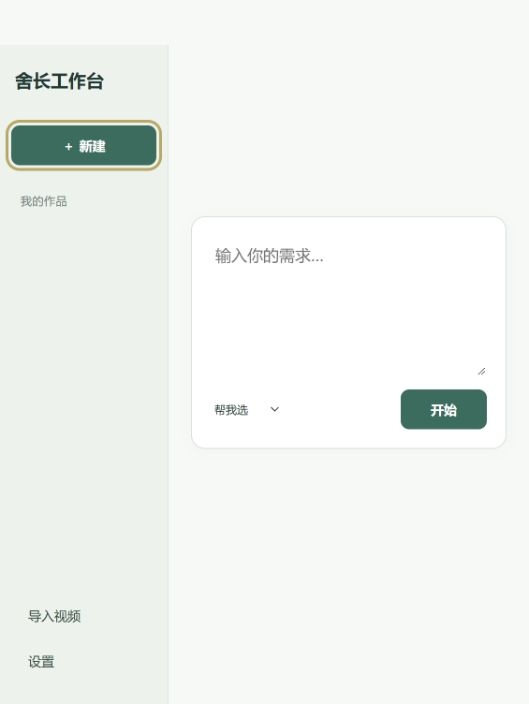
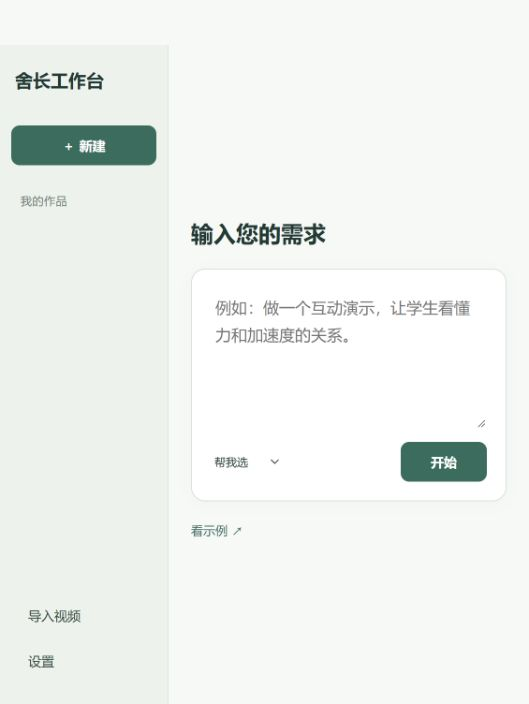
ui: add a short input prompt and example entry

diff --git a/teach_agent/static/app.js b/teach_agent/static/app.js
@@ -2,7 +2,7 @@
 const $=id=>document.getElementById(id);
 let token=location.hash.slice(1)||sessionStorage.getItem('teach-token')||'';
 if(location.hash){sessionStorage.setItem('teach-token',token);history.replaceState(null,'',location.pathname);}
-let current=null, versions=[], selectedVersion=null, activeJob=null, timer=null, videoUrl=null, uploadVersion=null;
+let current=null, versions=[], selectedVersion=null, activeJob=null, timer=null, videoUrl=null, example=false, uploadVersion=null;
 function notice(message){$('notice').textContent=message;$('notice').hidden=!message;}
 async function api(path,options={}){
   const response=await fetch('/api'+path,{...options,headers:{Authorization:'Bearer '+token,...(options.body&&!(options.body instanceof Blob)?{'Content-Type':'application/json'}:{}),...options.headers}});
@@ -21,15 +21,15 @@ async function refreshProjects(){const list=await json('/projects');$('projects'
 function planValue(){const form=$('plan-form'),old=current.plan;const plan={...old};for(const key of ['title','grade','kind','objective','misconception','interaction','observation','check_question'])plan[key]=form.elements[key].value.trim();for(const key of ['steps','assumptions'])plan[key]=form.elements[key].value.split('\n').map(x=>x.trim()).filter(Boolean);if(plan.kind==='animation'&&old.animation?.template==='force_composition'){plan.animation={template:'force_composition'};for(const key of ['force1','force2','angle','hold'])plan.animation[key]=Number(form.elements[key].value);}else if(plan.kind==='interactive'){plan.animation=null;}plan.learning_design=readTeachingDesign();if(plan.learning_design)plan.steps=plan.learning_design.sequence.map(step=>step.title);return plan;}
 function showPlan(){const p=current.plan;$('plan-panel').hidden=!p;if(!p)return;showPlanSummary(p);showTeachingDesign(p.learning_design);const f=$('plan-form');for(const key of ['title','grade','kind','objective','misconception','interaction','observation','check_question'])f.elements[key].value=p[key]||'';for(const key of ['steps','assumptions'])f.elements[key].value=(p[key]||[]).join('\n');$('animation-fields').hidden=p.kind!=='animation'||p.animation?.template!=='force_composition';if(p.animation)for(const key of ['force1','force2','angle','hold'])f.elements[key].value=p.animation[key]??({force1:3,force2:4,angle:60,hold:2}[key]);$('plan-revision').textContent='方案 '+current.plan_revision+' · '+(current.confirmed_revision===current.plan_revision?'已确认':'待确认');setStep(0);}
 async function savePlan(){if(!$('plan-form').reportValidity())throw Error('请补齐方案中的必填内容');const plan=planValue();if(JSON.stringify(plan)!==JSON.stringify(current.plan)){current=await post('/projects/'+current.id+'/plan',{revision:current.plan_revision,plan});showPlan();await refreshProjects();}}
-async function loadProject(id){clearTimeout(timer);activeJob=null;cleanPreview();const data=await json('/projects/'+id);current=data.project;versions=data.versions;$('existing-versions').hidden=!versions.length;$('page-title').textContent=current.title;show('workspace');$('progress').hidden=true;$('result-panel').hidden=true;showPlan();await refreshProjects();const running=data.jobs.find(j=>['queued','running'].includes(j.status));if(running){watch(running);return;}if(versions.length){await showVersion(versions[0].id);if(current.confirmed_revision!==current.plan_revision){$('plan-panel').hidden=false;$('result-panel').hidden=true;setStep(0);}}const last=data.jobs[0];if(last?.status==='failed')notice(last.error);}
+async function loadProject(id){clearTimeout(timer);activeJob=null;example=false;cleanPreview();const data=await json('/projects/'+id);current=data.project;versions=data.versions;$('existing-versions').hidden=!versions.length;$('page-title').textContent=current.title;show('workspace');$('progress').hidden=true;$('result-panel').hidden=true;showPlan();await refreshProjects();const running=data.jobs.find(j=>['queued','running'].includes(j.status));if(running){watch(running);return;}if(versions.length){await showVersion(versions[0].id);if(current.confirmed_revision!==current.plan_revision){$('plan-panel').hidden=false;$('result-panel').hidden=true;setStep(0);}}const last=data.jobs[0];if(last?.status==='failed')notice(last.error);}
 function watch(job){activeJob=job;show('workspace');$('progress').hidden=false;$('progress-stage').textContent=job.stage;$('progress-detail').textContent=job.kind==='plan'?'正在准备方案…':'正在制作…';setStep(job.kind==='plan'?0:1);$('plan-panel').hidden=true;$('result-panel').hidden=true;clearTimeout(timer);timer=setTimeout(()=>poll(job.id),800);}
 async function poll(id){try{const j=await json('/jobs/'+id);if(activeJob?.id!==id)return;activeJob=j;$('progress-stage').textContent=j.stage;if(['queued','running'].includes(j.status)){timer=setTimeout(()=>poll(id),1500);return;}$('progress').hidden=true;const pid=j.project_id;activeJob=null;await loadProject(pid);if(j.status==='failed')notice(j.error);if(j.status==='cancelled')notice('任务已取消，之前的作品仍然保留。');}catch(e){notice(e.message);timer=setTimeout(()=>poll(id),3000);}}
-async function showVersion(id){selectedVersion=versions.find(v=>v.id===id);if(!selectedVersion)return;cleanPreview();$('plan-panel').hidden=true;$('result-panel').hidden=false;$('result-title').textContent=selectedVersion.title;$('version-select').replaceChildren();versions.forEach((v,i)=>{const o=document.createElement('option');o.value=v.id;o.textContent='版本 '+(versions.length-i)+' · '+new Date(v.created_at).toLocaleString();o.selected=v.id===id;$('version-select').append(o);});$('version-select').hidden=false;const r=selectedVersion.report;$('result-checks').textContent=selectedVersion.kind==='animation'?'视频已解码检查 · 受控模板 · 请预览确认教学效果':(r.browser_checked?'浏览器交互与布局检查通过':'浏览器检查尚未实测')+' · 教学内容已做模型复核，仍建议老师预览';$('preview').hidden=selectedVersion.kind==='animation';$('video-preview').hidden=selectedVersion.kind!=='animation';if(selectedVersion.kind==='animation'){const access=await json('/versions/'+id+'/access');$('video-preview').src=access.url+'?format=video';}else{let page=await (await api('/versions/'+id+'/html')).text();if(selectedVersion.kind==='combined'){const access=await json('/versions/'+id+'/access');const media=location.origin+access.url+'?format=video';page=page.replaceAll('assets/clip.mp4',media).replaceAll('media-src &#x27;self&#x27; blob:', 'media-src '+location.origin+' blob:');}renderPreview(page);}$('download-main').textContent=selectedVersion.kind==='animation'?'保存 MP4 视频':selectedVersion.kind==='combined'?'保存含动画离线包':'保存互动 HTML';for(const element of ['download-zip','download-project','back-plan','revision-form'])$(element).hidden=false;if(selectedVersion.kind!=='interactive')$('revision-form').hidden=true;$('attach-video').hidden=selectedVersion.kind!=='interactive';$('back-plan').hidden=!current.plan;if(r.source==='imported')$('result-checks').textContent='导入已有动画 · 视频已解码检查 · 请预览确认教学内容';if(selectedVersion.kind==='combined')$('result-checks').textContent='互动版本的检查已保留 · 新加入的视频已解码检查，内容需预览确认';setStep(2);}
-async function download(format){const access=await json('/versions/'+selectedVersion.id+'/access');const link=document.createElement('a');link.href=access.url+'?format='+format;document.body.append(link);link.click();link.remove();}
+async function showVersion(id){selectedVersion=versions.find(v=>v.id===id);if(!selectedVersion)return;example=false;cleanPreview();$('plan-panel').hidden=true;$('result-panel').hidden=false;$('result-title').textContent=selectedVersion.title;$('version-select').replaceChildren();versions.forEach((v,i)=>{const o=document.createElement('option');o.value=v.id;o.textContent='版本 '+(versions.length-i)+' · '+new Date(v.created_at).toLocaleString();o.selected=v.id===id;$('version-select').append(o);});$('version-select').hidden=false;const r=selectedVersion.report;$('result-checks').textContent=selectedVersion.kind==='animation'?'视频已解码检查 · 受控模板 · 请预览确认教学效果':(r.browser_checked?'浏览器交互与布局检查通过':'浏览器检查尚未实测')+' · 教学内容已做模型复核，仍建议老师预览';$('preview').hidden=selectedVersion.kind==='animation';$('video-preview').hidden=selectedVersion.kind!=='animation';if(selectedVersion.kind==='animation'){const access=await json('/versions/'+id+'/access');$('video-preview').src=access.url+'?format=video';}else{let page=await (await api('/versions/'+id+'/html')).text();if(selectedVersion.kind==='combined'){const access=await json('/versions/'+id+'/access');const media=location.origin+access.url+'?format=video';page=page.replaceAll('assets/clip.mp4',media).replaceAll('media-src &#x27;self&#x27; blob:', 'media-src '+location.origin+' blob:');}renderPreview(page);}$('download-main').textContent=selectedVersion.kind==='animation'?'保存 MP4 视频':selectedVersion.kind==='combined'?'保存含动画离线包':'保存互动 HTML';for(const element of ['download-zip','download-project','back-plan','revision-form'])$(element).hidden=false;if(selectedVersion.kind!=='interactive')$('revision-form').hidden=true;$('attach-video').hidden=selectedVersion.kind!=='interactive';$('back-plan').hidden=!current.plan;if(r.source==='imported')$('result-checks').textContent='导入已有动画 · 视频已解码检查 · 请预览确认教学内容';if(selectedVersion.kind==='combined')$('result-checks').textContent='互动版本的检查已保留 · 新加入的视频已解码检查，内容需预览确认';setStep(2);}
+async function download(format){const access=await json(example?'/examples/force/access':'/versions/'+selectedVersion.id+'/access');const link=document.createElement('a');link.href=access.url+'?format='+format;document.body.append(link);link.click();link.remove();}
 async function openSettings(){const config=await json('/settings'),f=$('settings-form');for(const key of ['base_url','model','max_tokens','manim_python'])f.elements[key].value=config[key]??'';f.elements.api_key.value='';f.elements.api_key.placeholder=config.has_key?'已保存，留空即可保留':'本地无密钥模型可留空';$('settings-dialog').showModal();}
 async function boot(){const status=await json('/status');$('connection').textContent=status.model.configured?'模型已配置':'尚未配置模型';await refreshProjects();}
 $('request-form').onsubmit=e=>{e.preventDefault();act($('propose'),async()=>{const result=await post('/projects',{request:$('request').value,kind:$('kind').value});current=result.project;versions=[];$('existing-versions').hidden=true;$('page-title').textContent=current.title;await refreshProjects();watch(result.job);});};
-$('new-work').onclick=()=>{clearTimeout(timer);activeJob=null;current=null;cleanPreview();show('welcome');notice('');$('page-title').textContent='';refreshProjects().catch(e=>notice(e.message));};
+$('new-work').onclick=()=>{clearTimeout(timer);activeJob=null;current=null;example=false;cleanPreview();show('welcome');notice('');$('page-title').textContent='';refreshProjects().catch(e=>notice(e.message));};
 $('save-plan').onclick=()=>act($('save-plan'),async()=>{await savePlan();notice('方案已保存。确认后才会开始制作。');});
 $('plan-form').onsubmit=e=>{e.preventDefault();act($('confirm-plan'),async()=>{await savePlan();watch(await post('/projects/'+current.id+'/confirm',{revision:current.plan_revision}));});};
 $('plan-form').elements.kind.onchange=()=>{$('animation-fields').hidden=$('plan-form').elements.kind.value!=='animation'||current.plan.animation?.template!=='force_composition';};
@@ -38,7 +38,7 @@ $('cancel-job').onclick=()=>act($('cancel-job'),async()=>{if(activeJob){const pi
 $('version-select').onchange=()=>act(null,()=>showVersion($('version-select').value));
 $('revision-form').onsubmit=e=>{e.preventDefault();act(e.submitter,async()=>{watch(await post('/projects/'+current.id+'/revise',{version_id:selectedVersion.id,request:$('revision').value}));$('revision').value='';});};
 $('back-plan').onclick=()=>{$('result-panel').hidden=true;showPlan();};
-$('download-main').onclick=()=>act($('download-main'),()=>download(selectedVersion.kind==='interactive'?'html':selectedVersion.kind==='combined'?'zip':'video'));
+$('download-main').onclick=()=>act($('download-main'),()=>download(example||selectedVersion.kind==='interactive'?'html':selectedVersion.kind==='combined'?'zip':'video'));
 $('download-zip').onclick=()=>act($('download-zip'),()=>download('zip'));
 $('download-project').onclick=()=>act($('download-project'),()=>download('project'));
 $('settings-button').onclick=()=>act(null,openSettings);
@@ -46,6 +46,7 @@ $('settings-form').onsubmit=e=>{e.preventDefault();act(e.submitter,async()=>{con
 $('clear-key').onclick=()=>act($('clear-key'),async()=>{await json('/settings',{method:'PUT',body:JSON.stringify({clear_key:true})});$('settings-form').elements.api_key.value='';notice('配置文件中的密钥已清除。环境变量设置的密钥需在启动环境中清除。');});
 document.querySelectorAll('.close-dialog').forEach(b=>b.onclick=()=>b.closest('dialog').close());
 $('auth-form').onsubmit=e=>{e.preventDefault();act(e.submitter,async()=>{token=$('auth-token').value.trim();sessionStorage.setItem('teach-token',token);await boot();$('auth-dialog').close();});};
+$('example-button').onclick=()=>act($('example-button'),async()=>{clearTimeout(timer);activeJob=null;cleanPreview();example=true;current=null;$('page-title').textContent='示例';$('existing-versions').hidden=true;show('workspace');$('plan-panel').hidden=true;$('progress').hidden=true;$('result-panel').hidden=false;$('result-title').textContent='力与加速度 · 内置示例';$('result-checks').textContent='内置示例，可以直接操作体验。';$('version-select').hidden=true;$('preview').hidden=false;$('video-preview').hidden=true;renderPreview(await (await api('/examples/force')).text());$('download-main').textContent='保存示例 HTML';for(const element of ['download-zip','download-project','back-plan','revision-form','attach-video'])$(element).hidden=true;setStep(2);});
 boot().catch(e=>notice(e.message));
 
 $('import-button').onclick=()=>{uploadVersion=null;$('video-file').click();};

diff --git a/teach_agent/static/index.html b/teach_agent/static/index.html
@@ -6,7 +6,9 @@
 <header id="work-header" class="topbar" hidden><span id="page-title"></span></header>
 <div id="notice" role="alert" hidden></div>
 <section id="welcome" class="welcome">
-<form id="request-form" class="composer"><label for="request" class="sr-only">教学需求</label><textarea id="request" required maxlength="6000" placeholder="输入你的需求…"></textarea><div class="composer-footer"><label class="type-label"><span class="sr-only">作品形式</span><select id="kind"><option value="auto">帮我选</option><option value="interactive">互动演示</option><option value="animation">教学动画</option></select></label><button class="primary" id="propose">开始</button></div></form>
+<h1 class="request-heading"><label for="request">输入您的需求</label></h1>
+<form id="request-form" class="composer"><textarea id="request" required maxlength="6000" placeholder="例如：做一个互动演示，让学生看懂力和加速度的关系。"></textarea><div class="composer-footer"><label class="type-label"><span class="sr-only">作品形式</span><select id="kind"><option value="auto">帮我选</option><option value="interactive">互动演示</option><option value="animation">教学动画</option></select></label><button class="primary" id="propose">开始</button></div></form>
+<button id="example-button" class="text-button home-example">看示例 ↗</button>
 </section>
 <section id="workspace" hidden>
 <div class="stepper"><span id="step-plan">1 确认教学方案</span><i></i><span id="step-build">2 制作与检查</span><i></i><span id="step-result">3 预览与带走</span></div>

diff --git a/teach_agent/static/app.css b/teach_agent/static/app.css
@@ -13,3 +13,5 @@
 .welcome .type-label select{padding-left:0;background:transparent}
 @media(max-width:800px){.brand{font-size:19px;margin-left:4px;margin-right:0}.welcome{padding:0 24px}}
 @media(max-width:560px){.sidebar{flex-wrap:wrap}.brand{font-size:18px;margin:0 auto 0 0}.sidebar-bottom{margin-left:0}.sidebar>button{margin-left:auto}.welcome{margin:18vh auto 40px;padding:0 18px}.welcome .composer-footer{flex-direction:row;align-items:center}.welcome .composer-footer .primary{width:auto}}
+
+.request-heading{margin:0 0 20px;font-size:24px;letter-spacing:0;font-weight:600;line-height:1.5}.request-heading label{display:block;font-size:inherit;font-weight:inherit}.home-example{margin-top:14px;font-size:13px}

diff --git a/VERIFICATION.md b/VERIFICATION.md
@@ -47,3 +47,5 @@
 - 一次确认界面：默认只展示完整方案摘要，详细编辑折叠。使用固定响应在实际浏览器中未展开/填写表单，直接确认一次，自动制作检查完成并进入预览；51 项原有测试仍通过。
 
 - 首页改名为“舍长工作台”，移除口号、流程介绍、示例推荐和组件入口；保留需求输入、形式选择、开始、作品与设置。实际浏览器确认设置可打开、三种形式可选择、新建可返回简洁首页，无脚本错误。修复形式选择中原有的错误 option 标签。51 项测试通过。
+
+- 首页保留一行“输入您的需求”、输入框内一句示例，以及“看示例”入口；实际浏览器验证可打开内置互动示例并返回首页。
